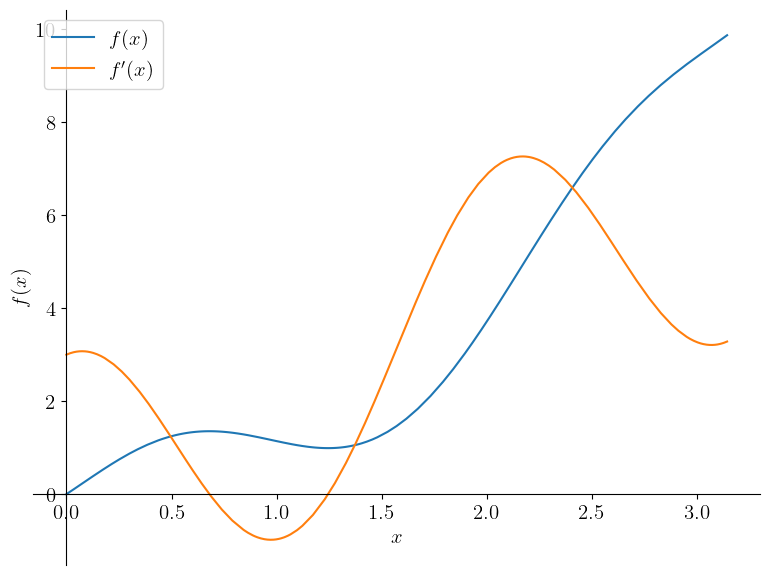
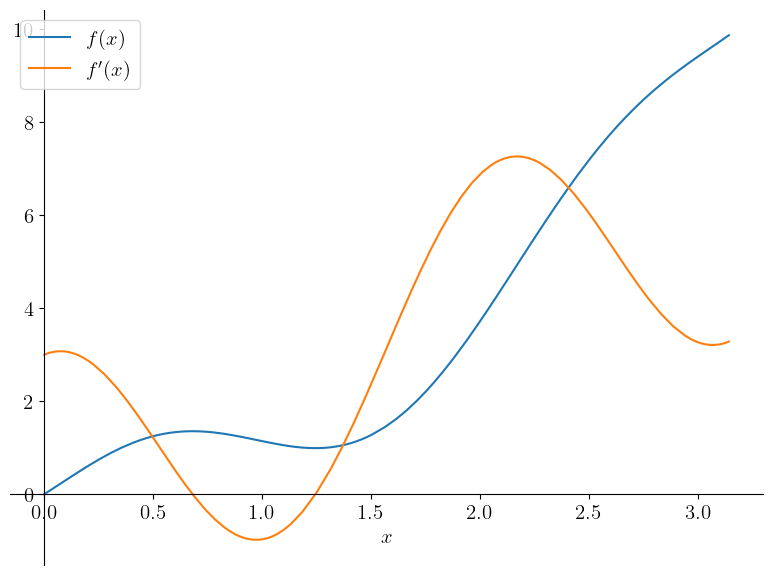
Built site for gh-pages

diff --git a/posts/derivative-of-1d-scalar-function/index.html b/posts/derivative-of-1d-scalar-function/index.html
@@ -554,8 +554,8 @@ right: 0.0090</code></pre>
 <p>As I mentioned in the <a href="https://mgjeon.github.io/posts/draw-1d-scalar-function/">previous post</a>, <code>SymPy</code> also supports plotting of a function.</p>
 <div class="cell">
 <div class="sourceCode cell-code" id="cb26"><pre class="sourceCode python code-with-copy"><code class="sourceCode python"><span id="cb26-1"><a href="#cb26-1" aria-hidden="true" tabindex="-1"></a><span class="im">from</span> sympy.plotting <span class="im">import</span> plot</span>
-<span id="cb26-2"><a href="#cb26-2" aria-hidden="true" tabindex="-1"></a>p1 <span class="op">=</span> plot(f, (x, <span class="dv">0</span>, np.pi), legend<span class="op">=</span><span class="va">True</span>, show<span class="op">=</span><span class="va">False</span>, label<span class="op">=</span><span class="st">"$f(x)$"</span>)</span>
-<span id="cb26-3"><a href="#cb26-3" aria-hidden="true" tabindex="-1"></a>p2 <span class="op">=</span> plot(df_dx_sympy, (x, <span class="dv">0</span>, np.pi), legend<span class="op">=</span><span class="va">True</span>, show<span class="op">=</span><span class="va">False</span>, label<span class="op">=</span><span class="vs">r"$f'(x)$"</span>)</span>
+<span id="cb26-2"><a href="#cb26-2" aria-hidden="true" tabindex="-1"></a>p1 <span class="op">=</span> plot(f, (x, <span class="dv">0</span>, np.pi), legend<span class="op">=</span><span class="va">True</span>, show<span class="op">=</span><span class="va">False</span>, label<span class="op">=</span><span class="st">"$f(x)$"</span>, ylabel<span class="op">=</span><span class="st">''</span>)</span>
+<span id="cb26-3"><a href="#cb26-3" aria-hidden="true" tabindex="-1"></a>p2 <span class="op">=</span> plot(df_dx_sympy, (x, <span class="dv">0</span>, np.pi), legend<span class="op">=</span><span class="va">True</span>, show<span class="op">=</span><span class="va">False</span>, label<span class="op">=</span><span class="vs">r"$f'(x)$"</span>, ylabel<span class="op">=</span><span class="st">''</span>)</span>
 <span id="cb26-4"><a href="#cb26-4" aria-hidden="true" tabindex="-1"></a>p1.extend(p2)</span>
 <span id="cb26-5"><a href="#cb26-5" aria-hidden="true" tabindex="-1"></a>p1.show()</span></code><button title="Copy to Clipboard" class="code-copy-button"><i class="bi"></i></button></pre></div>
 <div class="cell-output cell-output-display">

diff --git a/index.html b/index.html
@@ -179,7 +179,7 @@ ul.task-list li input[type="checkbox"] {
 
 <div class="quarto-listing quarto-listing-container-default" id="listing-listing">
 <div class="list quarto-listing-default">
-<div class="quarto-post image-right" data-index="0" data-categories="math,python,english" data-listing-date-sort="1699056000000" data-listing-file-modified-sort="1699097244577" data-listing-date-modified-sort="NaN" data-listing-reading-time-sort="4">
+<div class="quarto-post image-right" data-index="0" data-categories="math,python,english" data-listing-date-sort="1699056000000" data-listing-file-modified-sort="1699097681622" data-listing-date-modified-sort="NaN" data-listing-reading-time-sort="4">
 <div class="thumbnail">
 <p><a href="./posts/derivative-of-1d-scalar-function/index.html"> <p class="card-img-top"><img src="posts/derivative-of-1d-scalar-function/index_files/figure-html/cell-3-output-1.png"  class="thumbnail-image card-img"/></p> </a></p>
 </div>
